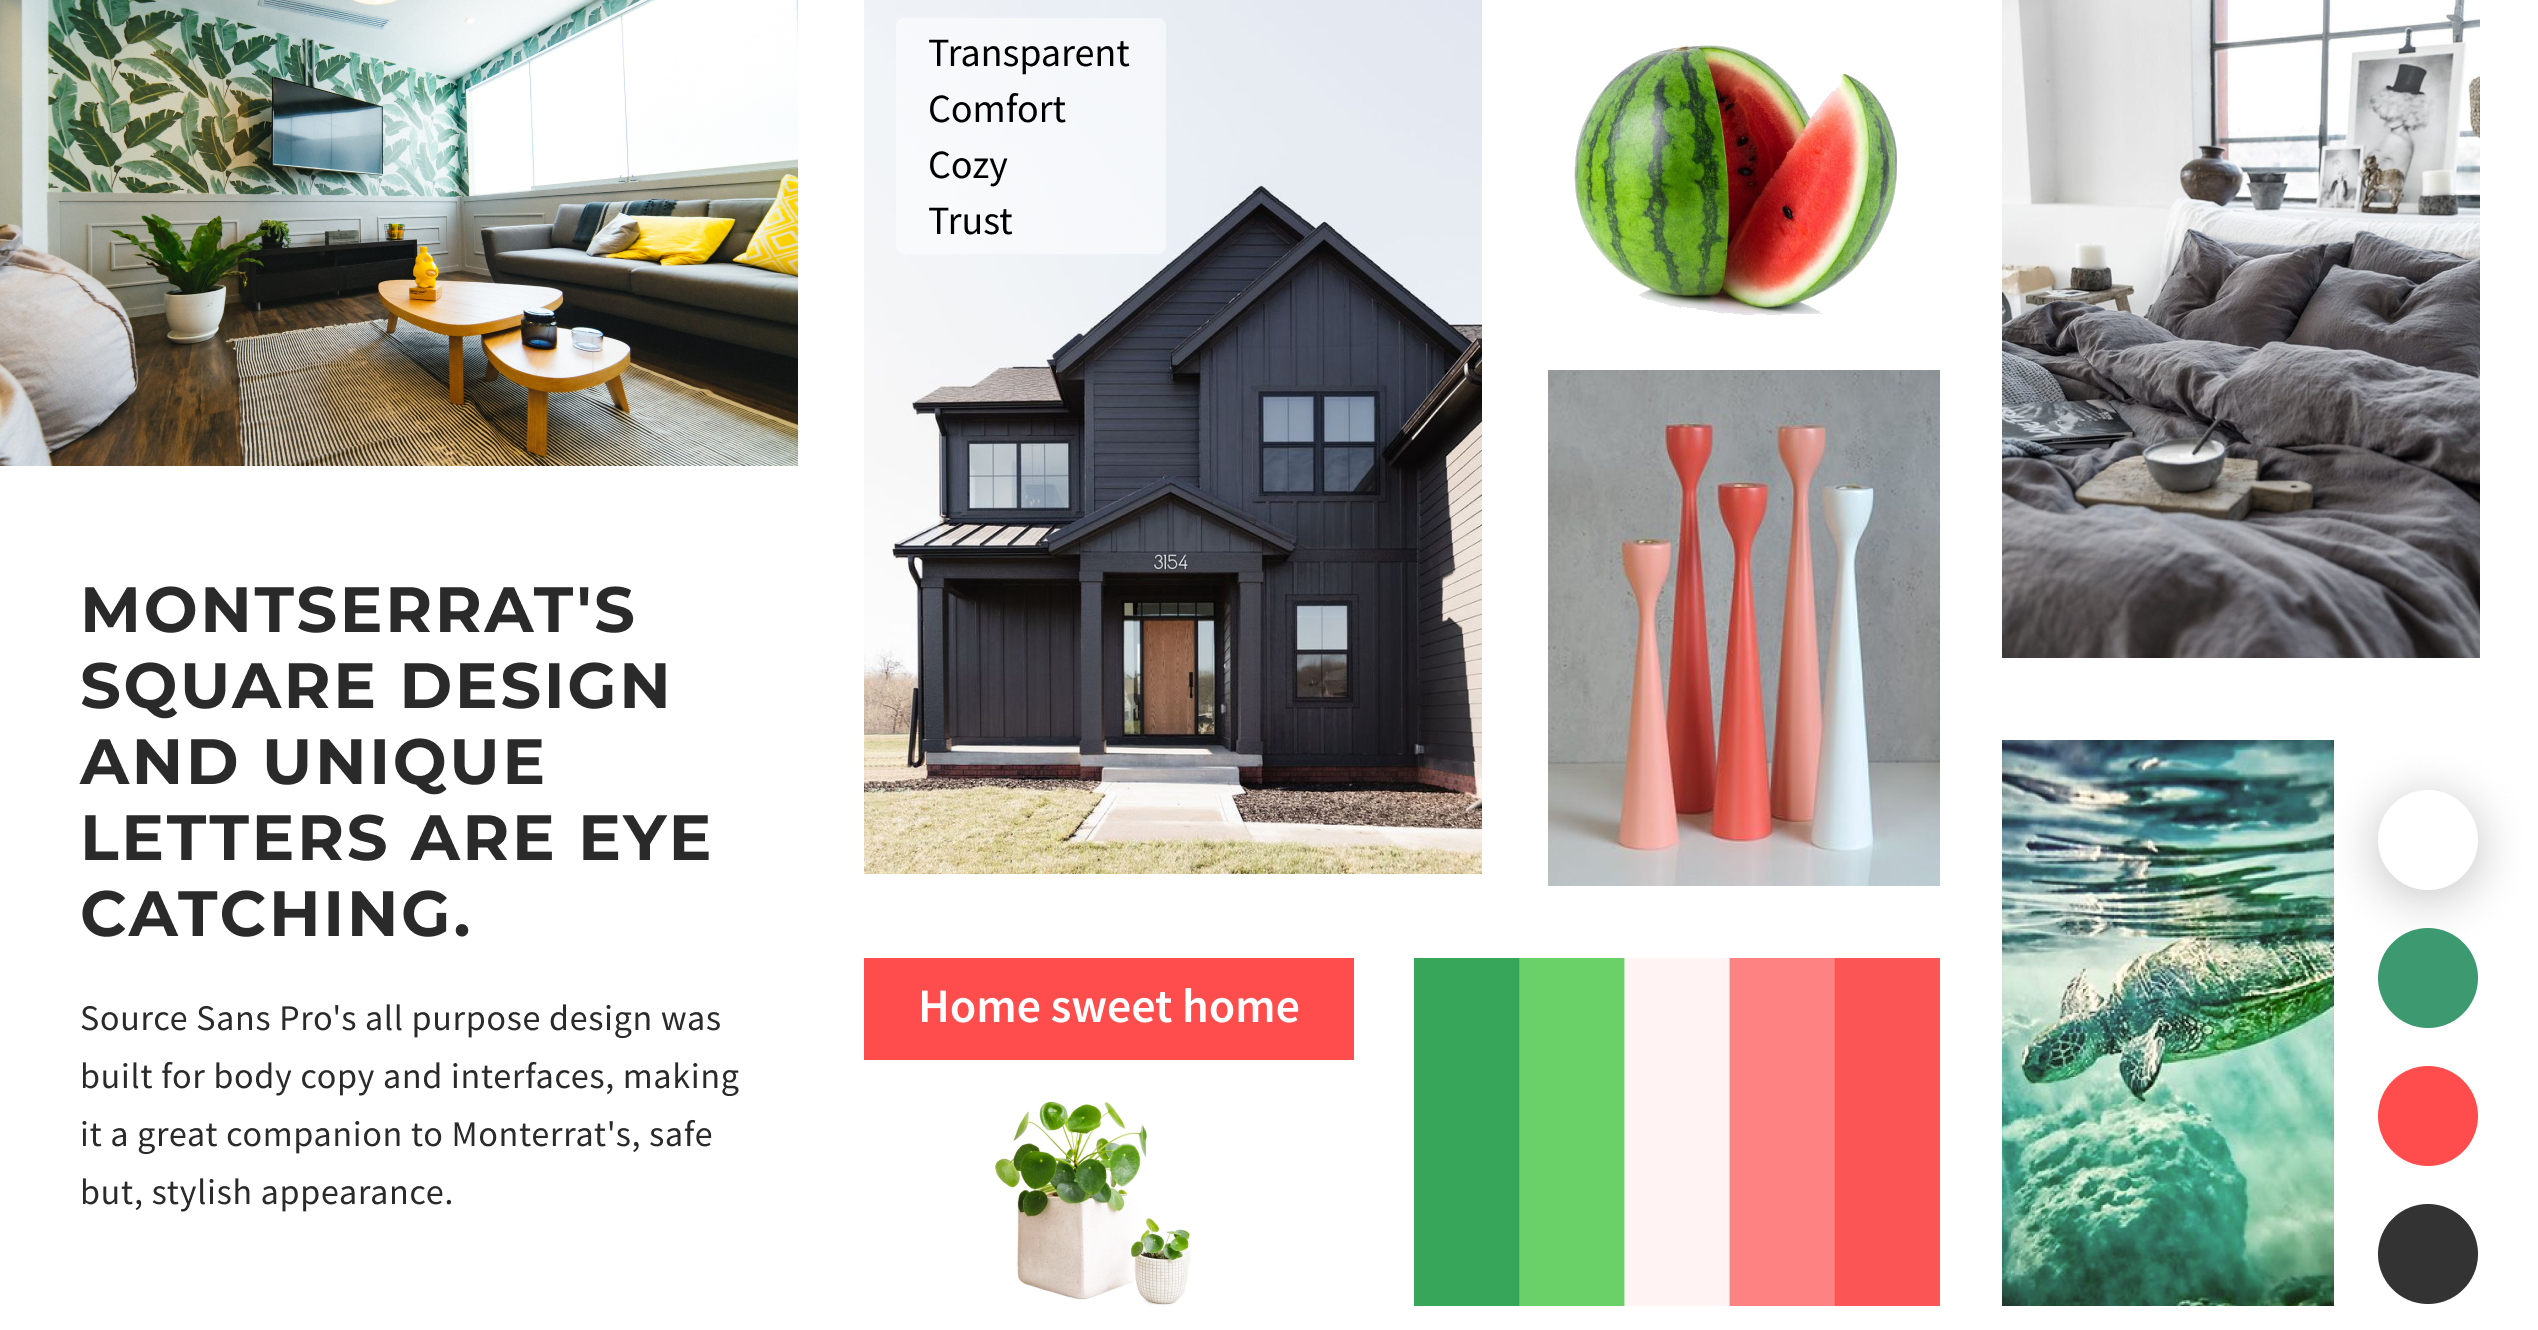
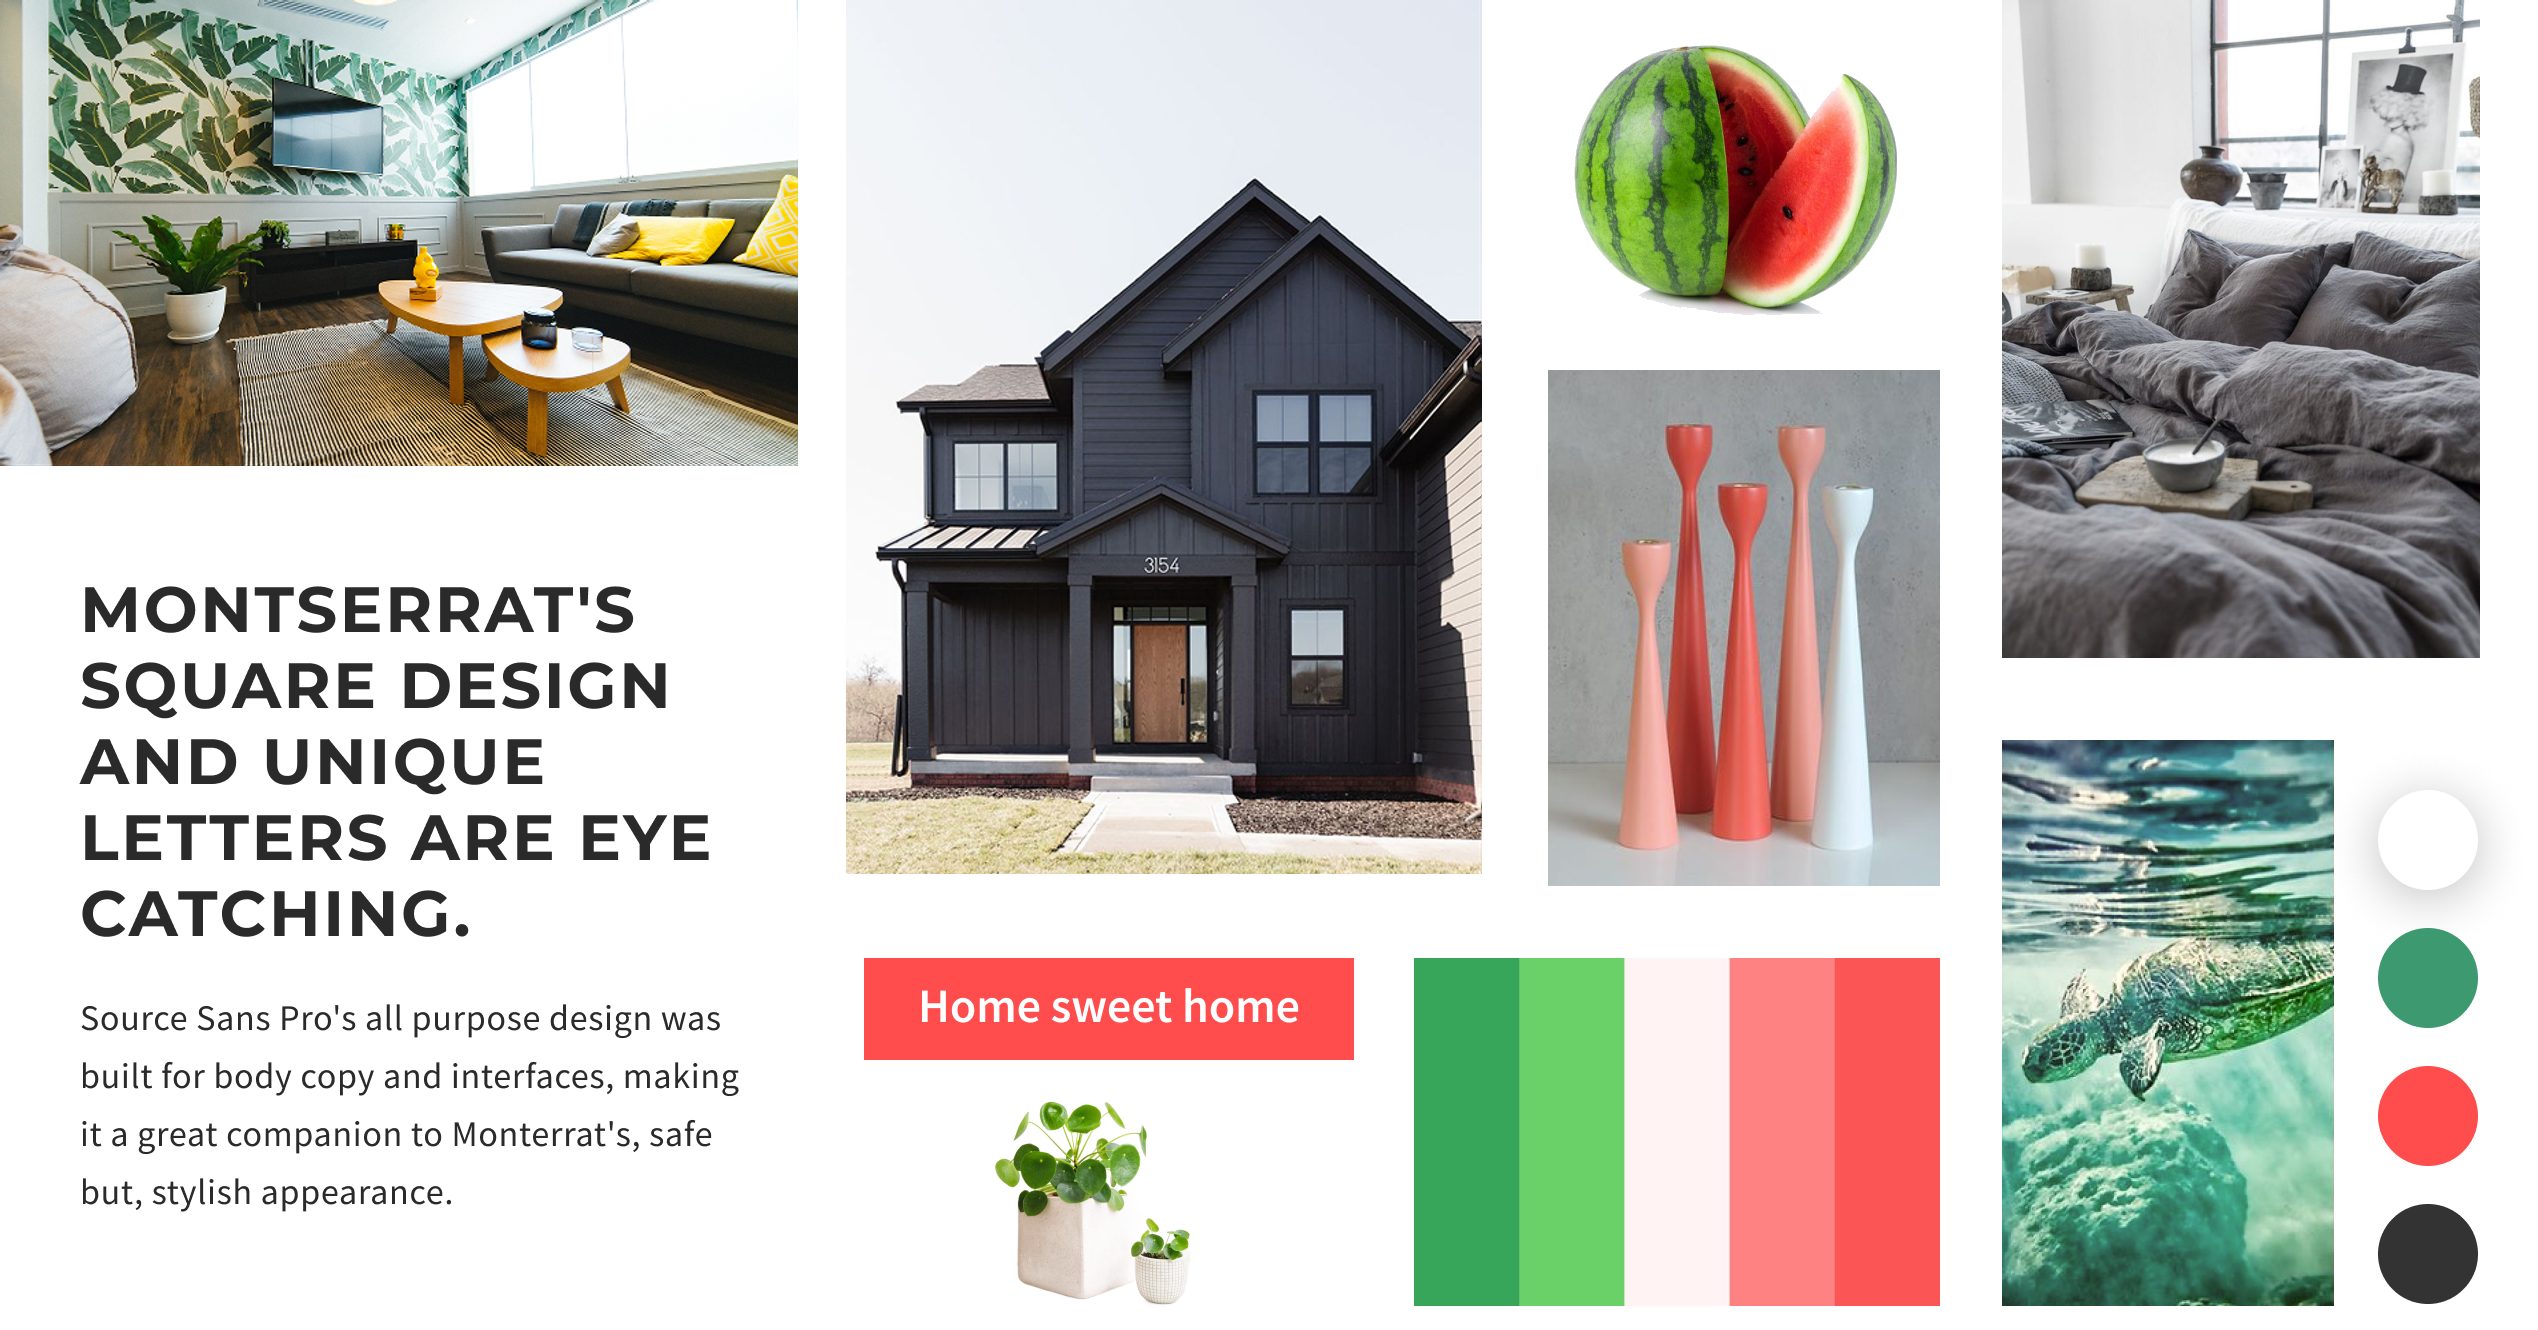
feat(homelon): add iPhone to hero, clean up moodboard, rewrite gap section
- Hero: bake a third device (iPhone, real devices.css frame showing the
  search+map screen) into the laptop+tablet composite, overlapping the
  laptop's right edge. Rendering the frame at native size with a plain
  reinforcement div (instead of relying on the library's inset box-shadow,
  and avoiding CSS transform:scale) works around a Chromium rasterization
  bug that was dropping the right-side bezel paint.
- Moodboard: remove the leftover "Transparent/Comfort/Cozy/Trust" text
  card and its background, replace the house photo, and square off the
  top-left corner's stray radius.
- Gaps section: rewrite Gap 01/02 copy and titles ("Challenges" /
  "Future Steps") to match the legacy site's Retrospective section.

diff --git a/homelon_case_study/website_page/index.html b/homelon_case_study/website_page/index.html
@@ -28,8 +28,7 @@
       --font-sans:  'Inter', system-ui, sans-serif;
     }
     *, *::before, *::after { box-sizing: border-box; margin: 0; padding: 0; }
-    html { overflow-x: hidden; }
-    body { width: 100%; overflow-x: hidden; }
+    body { width: 100%; }
     body {
       font-family: var(--font-sans);
       background: var(--bg);
@@ -87,7 +86,7 @@
 
     #hb .b-cover-body { display: flex; justify-content: center; }
 
-    /* Hero cover — search and map screens on laptop and tablet */
+    /* Hero cover — search and map screens on laptop, tablet, and iPhone */
     #hb .b-cover-image { width: 100%; max-width: 1100px; height: auto; display: block; }
 
     /* iPhone frame — devices.css (picturepan2/devices.css, MIT), scaled to fit our layout */
@@ -176,7 +175,7 @@
     #hb .b-toc-list .num { font-family: var(--font-serif); font-style: italic; color: var(--accent); font-size: 14px; }
     #hb .b-section-mark, #hb .b-reflection { scroll-margin-top: 80px; }
 
-    #hb .b-article { font-size: 17px; line-height: 1.7; color: var(--ink-2); max-width: 720px; }
+    #hb .b-article { font-size: 17px; line-height: 1.7; color: var(--ink-2); max-width: 720px; overflow-x: hidden; }
     #hb .b-section-mark { display: flex; align-items: baseline; gap: 16px; margin-bottom: 24px; }
     #hb .b-section-mark .num { font-family: var(--font-serif); font-style: italic; color: var(--accent); font-size: 18px; }
     #hb .b-section-mark .label { font-size: 11px; text-transform: uppercase; letter-spacing: 0.14em; color: var(--muted); border-top: 1px solid var(--ink); padding-top: 6px; }
@@ -224,6 +223,7 @@
 
     /* Wide process artifacts — finished graphics (wireframes, colour grid, competitive audit), not phone screens */
     #hb .b-figure-wide img { width: 100%; height: auto; display: block; border-radius: 10px; }
+    #hb .b-figure-wide img.b-moodboard-img { border-top-left-radius: 0; }
 
     /* Logo spec — two tightly-cropped groups (in-app sizes, website/tablet sizes) side by side instead of one sprawling sheet */
     #hb .b-logo-spec { display: flex; align-items: center; gap: 40px; }
@@ -371,7 +371,7 @@
 
   <div class="b-cover">
     <div class="b-cover-body">
-      <img class="b-cover-image" src="../visuals/homelon-laptop-tablet.png" alt="Homelon search and map screens shown on laptop and tablet">
+      <img class="b-cover-image" src="../visuals/homelon-laptop-tablet-phone.png" alt="Homelon search and map screens shown on laptop, tablet, and iPhone">
     </div>
   </div>
 
@@ -460,7 +460,7 @@
         <p>The moodboard set the emotional target before any interface work started — Coral/Watermelon Red for energy and ambition, Sea Turtle Green for stability and growth, and Charcoal for professionalism. Every colour and shape decision that followed traces back to this board.</p>
 
         <figure class="b-figure b-figure-wide">
-          <img src="../visuals/homelon-moodboard.png" alt="Homelon moodboard — watermelon-inspired imagery pairing coral red, sea turtle green, and charcoal with natural, homely photography">
+          <img class="b-moodboard-img" src="../visuals/homelon-moodboard.png" alt="Homelon moodboard — watermelon-inspired imagery pairing coral red, sea turtle green, and charcoal with natural, homely photography">
           <figcaption>The moodboard behind the palette.</figcaption>
         </figure>
 
@@ -614,13 +614,13 @@
         <div class="b-gaps">
           <div class="b-gap-card">
             <div class="num">Gap 01</div>
-            <h4>No usability testing.</h4>
-            <p>The short project timeline meant focus stayed on UI design; no usability testing was conducted. Testing with users of varying abilities and disabilities — including accessibility-focused testing — remains the clearest next step before this design could be validated with real buyers.</p>
+            <h4>Challenges</h4>
+            <p>The project's duration was short, requiring me to focus primarily on the UI aspect of the app. Despite being given the user research, I conducted additional research into competitor apps and user flow — vital for a thorough understanding of requirements and for refining the UI to meet the project's needs.</p>
           </div>
           <div class="b-gap-card">
             <div class="num">Gap 02</div>
-            <h4>Research handed off without competitive context.</h4>
-            <p>Competitive positioning wasn't part of the original research scope, so the competitive audit and user-flow prioritization were self-directed rather than handed to me ready-made. This filled the gap for this project, but a fuller research phase would strengthen future iterations.</p>
+            <h4>Future Steps</h4>
+            <p>I plan to conduct usability testing with people of varying abilities and disabilities, which can provide valuable insight into the experience for a diverse range of users. I'd also design icons that align with the watermelon theme, similar to the location pin, to further emphasize the app's branding.</p>
           </div>
         </div>
       </section>
